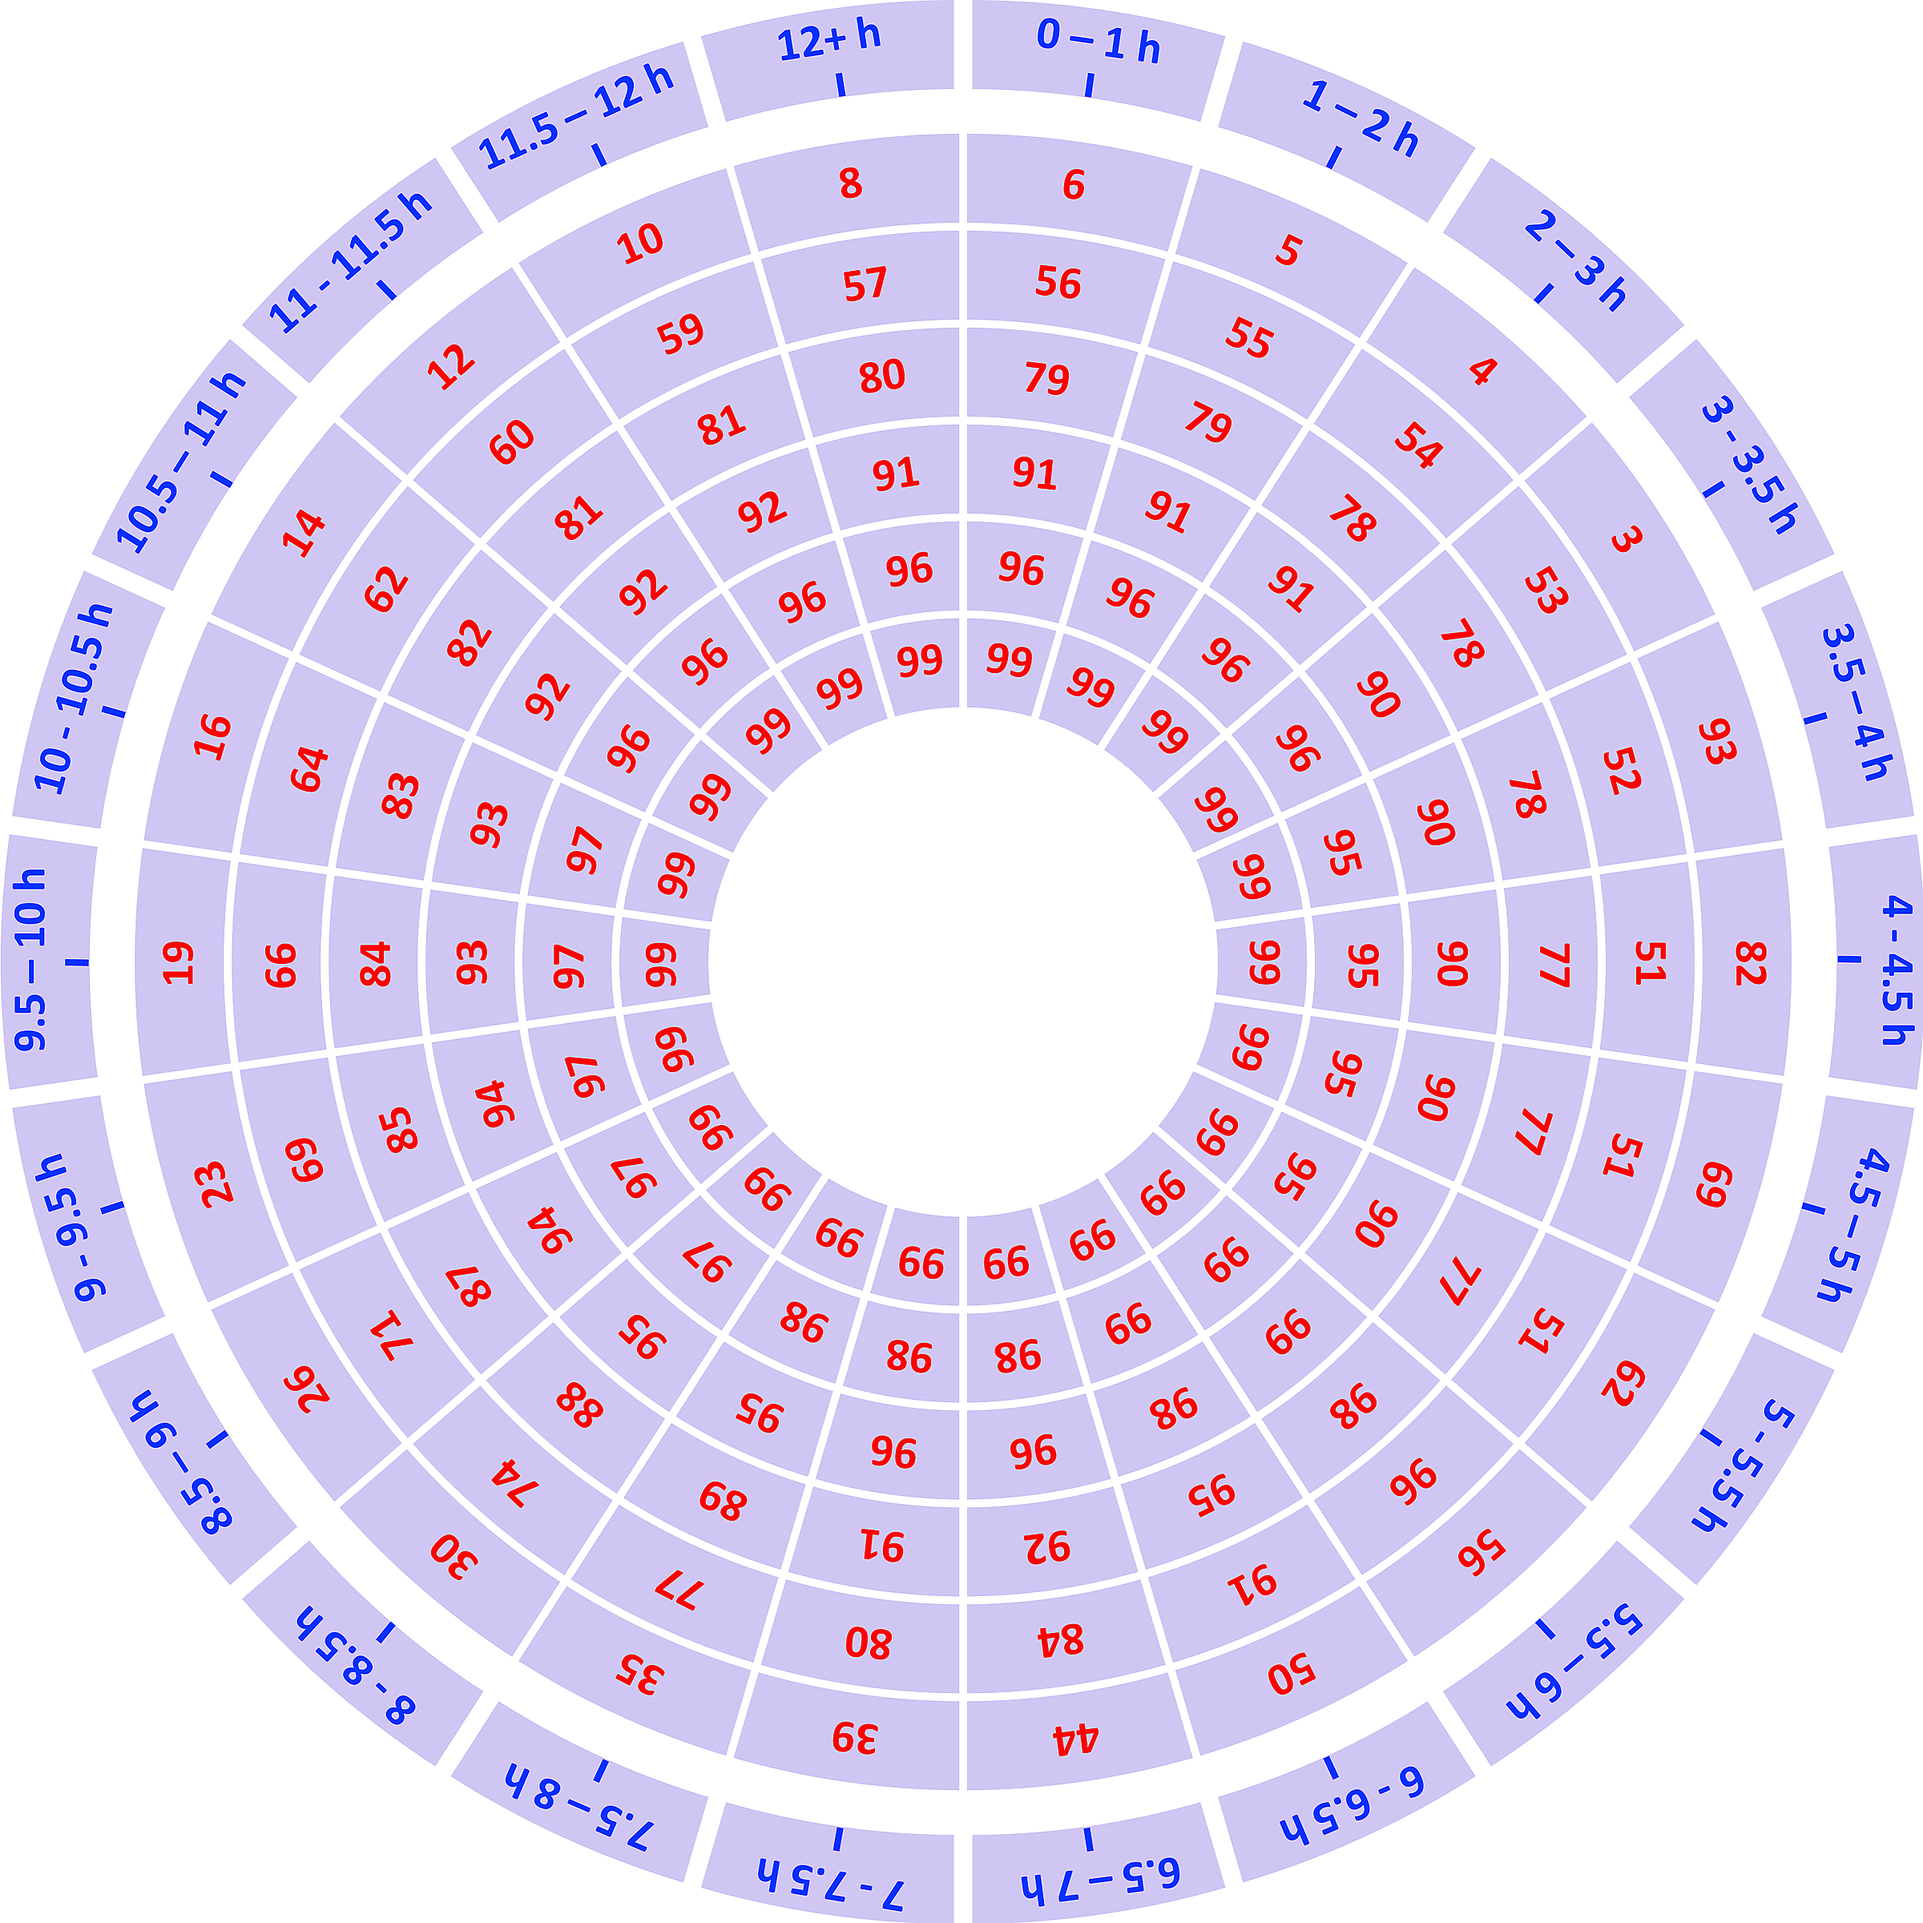
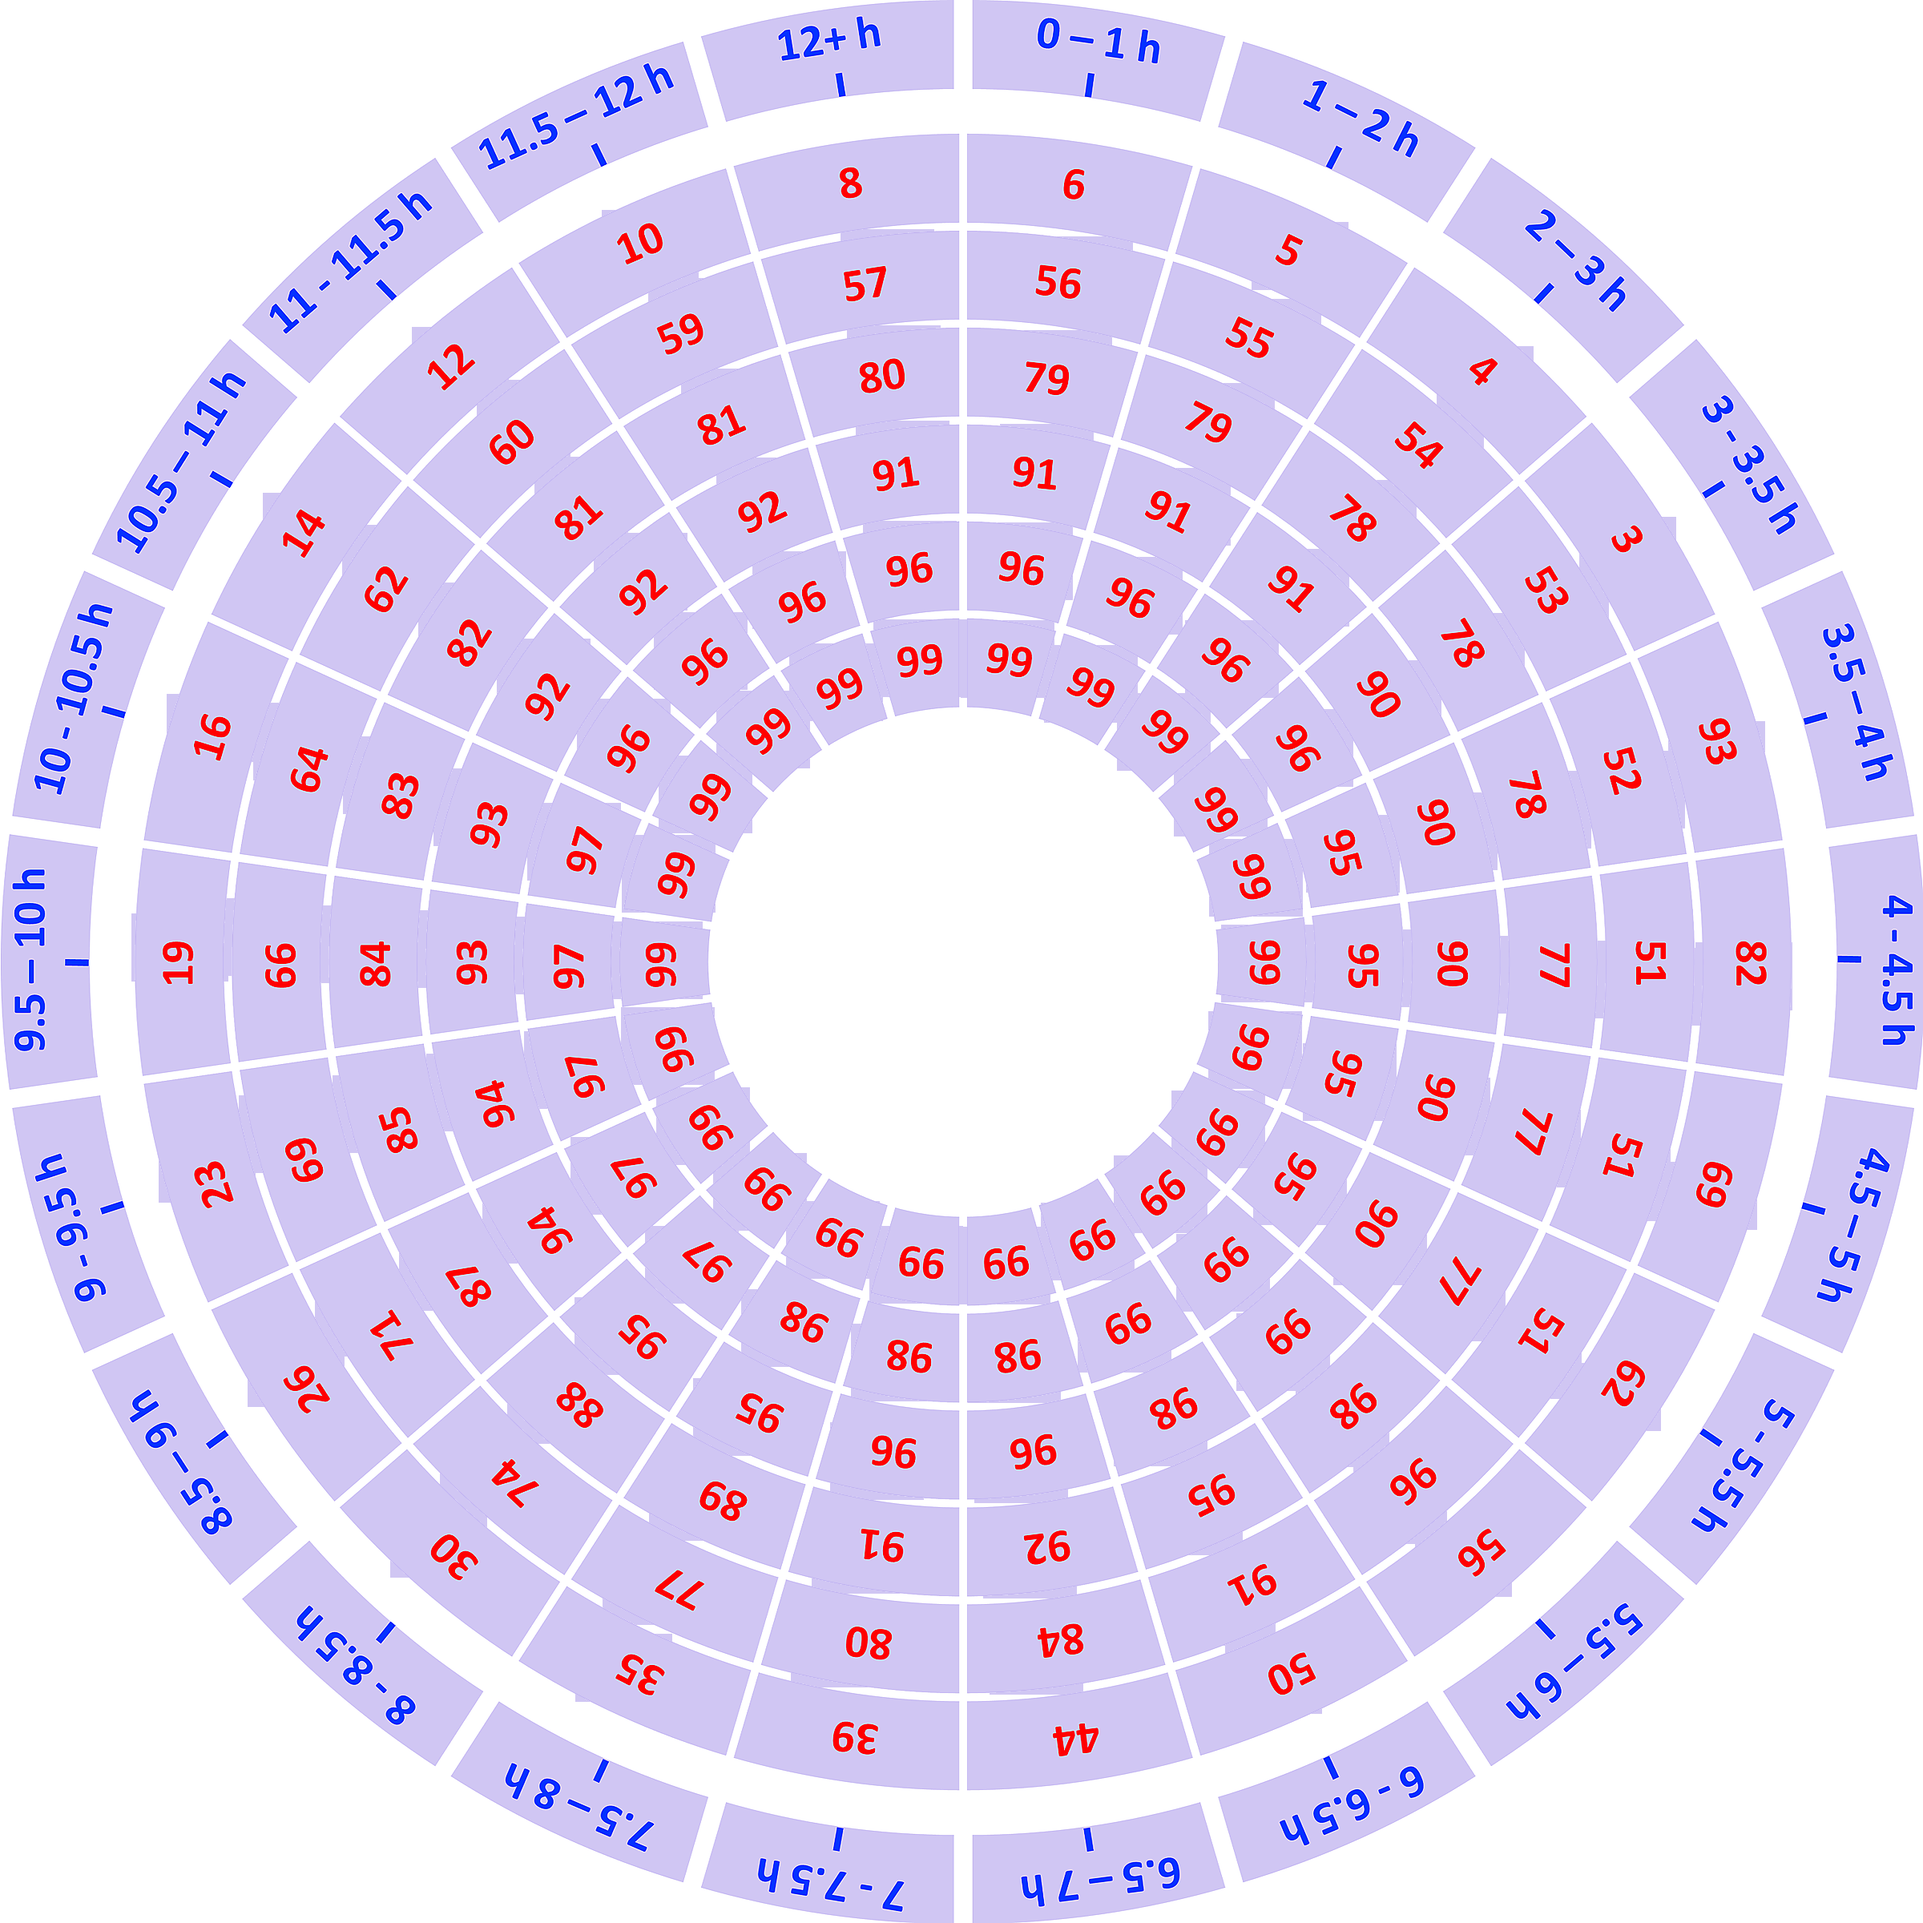
field

diff --git a/scripts/fix_layer2_whitefills.py b/scripts/fix_layer2_whitefills.py
@@ -1,0 +1,150 @@
+"""
+Replace white fills in Layer 2 data boxes with surrounding background color.
+
+Each of the 22 sectors × 6 holes = 132 data boxes in Layer 2 has a white
+PPTX text-box fill that shows through the transparent holes in Layer 1.
+For each position we:
+  1. Compute the Layer 2 pixel position using the rotation formula from sba-wheel.js
+  2. Sample the median non-white color in an annular ring around the box
+  3. Replace all near-white pixels in the box area with that color
+"""
+import math, os
+import numpy as np
+from PIL import Image
+
+# ── Constants (same as generate_sba_images_hires.py) ──────────────────────────
+OUT_W = OUT_H = 2400
+EXPORT_SIZE   = 7200
+SCALE         = EXPORT_SIZE / 1800
+SX = int(round(515 * SCALE))   # 2060
+SY = int(round(217 * SCALE))   # 868
+SW = int(round(694 * SCALE))   # 2776
+SH = int(round(1234 * SCALE))  # 4936
+CX_OUT = OUT_W // 2  # 1200
+CY_OUT = OUT_H // 2  # 1200
+
+# ── Wheel geometry (from sba-wheel.js) ────────────────────────────────────────
+N             = 22
+ASTEP         = 2 * math.pi / N
+A0            = -math.pi / 2
+DEFAULT_ANGLE = -2.878   # arrow angle in natural Layer 1 PNG (empirical)
+
+# ── Layer 1 hole positions in PPTX fractional coords ──────────────────────────
+HOLE_SHAPES_FRAC = [
+    (0.4560, 0.1874, 0.0181, 0.0219),   # hole 0: No MWH Stay count
+    (0.5300, 0.4029, 0.0176, 0.0254),   # hole 1: innermost stay row
+    (0.5470, 0.3843, 0.0176, 0.0254),
+    (0.5644, 0.3663, 0.0176, 0.0254),
+    (0.5809, 0.3487, 0.0176, 0.0254),
+    (0.5976, 0.3317, 0.0176, 0.0254),   # hole 5: outermost stay row
+]
+
+def frac_to_px(cx_frac, cy_frac, w_frac, h_frac):
+    cx_exp = cx_frac * EXPORT_SIZE;  cy_exp = cy_frac * EXPORT_SIZE
+    w_exp  = w_frac  * EXPORT_SIZE;  h_exp  = h_frac  * EXPORT_SIZE
+    cx_out = (cx_exp - SX) * (OUT_W / SW)
+    cy_out = (cy_exp - SY) * (OUT_H / SH)
+    w_out  = w_exp  * (OUT_W / SW)
+    h_out  = h_exp  * (OUT_H / SH)
+    return cx_out, cy_out, w_out, h_out
+
+HOLES_L1 = [frac_to_px(*h) for h in HOLE_SHAPES_FRAC]
+
+def get_l2_pos(hole_idx, sector_idx):
+    """
+    Layer 2 pixel position revealed by hole_idx when Layer 1 shows sector_idx.
+
+    From sba-wheel.js:
+        rotation = (A0 + selected*ASTEP + ASTEP/2) - DEFAULT_ANGLE
+        ctx.translate(CX, CY); ctx.rotate(rotation); drawImage Layer1
+
+    A Layer 1 pixel at (px, py) maps to Layer 2 at:
+        x = CX + (px-CX)*cos(rotation) - (py-CY)*sin(rotation)
+        y = CY + (px-CX)*sin(rotation) + (py-CY)*cos(rotation)
+    """
+    cx_l1, cy_l1 = HOLES_L1[hole_idx][0], HOLES_L1[hole_idx][1]
+    rx = cx_l1 - CX_OUT
+    ry = cy_l1 - CY_OUT
+    rotation = (A0 + sector_idx * ASTEP + ASTEP / 2) - DEFAULT_ANGLE
+    c = math.cos(rotation)
+    s = math.sin(rotation)
+    return CX_OUT + rx * c - ry * s, CY_OUT + rx * s + ry * c
+
+def sample_bg(arr, cx, cy, r_in, r_out):
+    """Median non-white RGB in annulus [r_in, r_out] around (cx, cy)."""
+    H, W = arr.shape[:2]
+    ci, ri = int(round(cx)), int(round(cy))
+    x0 = max(0, ci - r_out);  x1 = min(W, ci + r_out + 1)
+    y0 = max(0, ri - r_out);  y1 = min(H, ri + r_out + 1)
+    if x0 >= x1 or y0 >= y1:
+        return None
+    reg = arr[y0:y1, x0:x1]
+    ys, xs = np.mgrid[y0:y1, x0:x1]
+    dist = np.sqrt((xs - cx) ** 2 + (ys - cy) ** 2)
+    ring  = (dist >= r_in) & (dist < r_out)
+    r_ch  = reg[:, :, 0].astype(float)
+    g_ch  = reg[:, :, 1].astype(float)
+    b_ch  = reg[:, :, 2].astype(float)
+    nw    = ring & ~((r_ch > 230) & (g_ch > 230) & (b_ch > 230))
+    if nw.sum() < 5:
+        return None
+    return (int(np.median(r_ch[nw])), int(np.median(g_ch[nw])), int(np.median(b_ch[nw])))
+
+def clear_white(arr, cx, cy, half_w, half_h, fill_rgb):
+    """Replace near-white pixels in rectangle [±half_w, ±half_h] with fill_rgb."""
+    H, W = arr.shape[:2]
+    ci, ri = int(round(cx)), int(round(cy))
+    x0 = max(0, ci - half_w);  x1 = min(W, ci + half_w + 1)
+    y0 = max(0, ri - half_h);  y1 = min(H, ri + half_h + 1)
+    if x0 >= x1 or y0 >= y1:
+        return 0
+    reg  = arr[y0:y1, x0:x1]
+    white = (reg[:, :, 0].astype(int) > 220) & \
+            (reg[:, :, 1].astype(int) > 220) & \
+            (reg[:, :, 2].astype(int) > 220)
+    count = int(white.sum())
+    if count:
+        reg[white] = fill_rgb
+        arr[y0:y1, x0:x1] = reg
+    return count
+
+# ── Main ──────────────────────────────────────────────────────────────────────
+OUT_DIR = r'c:\Users\ydu\Documents\GitHub\yuhangdu-edu.github.io\assets\images\sba-wheel'
+
+for fname in ['layer2_nuli.png', 'layer2_multi.png']:
+    path = os.path.join(OUT_DIR, fname)
+    img  = Image.open(path).convert('RGB')
+    arr  = np.array(img)
+    total = 0
+
+    print(f"\nProcessing {fname} ...")
+
+    for h in range(6):
+        cx_l1, cy_l1, w_l1, h_l1 = HOLES_L1[h]
+        half_w = int(w_l1 / 2) + 4   # slightly larger than hole to catch glow
+        half_h = int(h_l1 / 2) + 4
+        r_in  = max(half_w, half_h) + 6
+        r_out = max(half_w, half_h) + 45
+
+        skipped = 0
+        for s in range(N):
+            cx_l2, cy_l2 = get_l2_pos(h, s)
+
+            color = sample_bg(arr, cx_l2, cy_l2, r_in, r_out)
+            if color is None:
+                color = sample_bg(arr, cx_l2, cy_l2, r_out, r_out + 40)
+            if color is None:
+                skipped += 1
+                continue
+
+            n = clear_white(arr, cx_l2, cy_l2, half_w, half_h, color)
+            total += n
+
+        if skipped:
+            print(f"  hole {h}: {skipped} sectors skipped (no bg sample)")
+
+    print(f"  Total white pixels replaced: {total:,}")
+    Image.fromarray(arr, 'RGB').save(path, 'PNG', optimize=False)
+    print(f"  Saved {path} ({os.path.getsize(path) // 1024} KB)")
+
+print("\nDone.")
